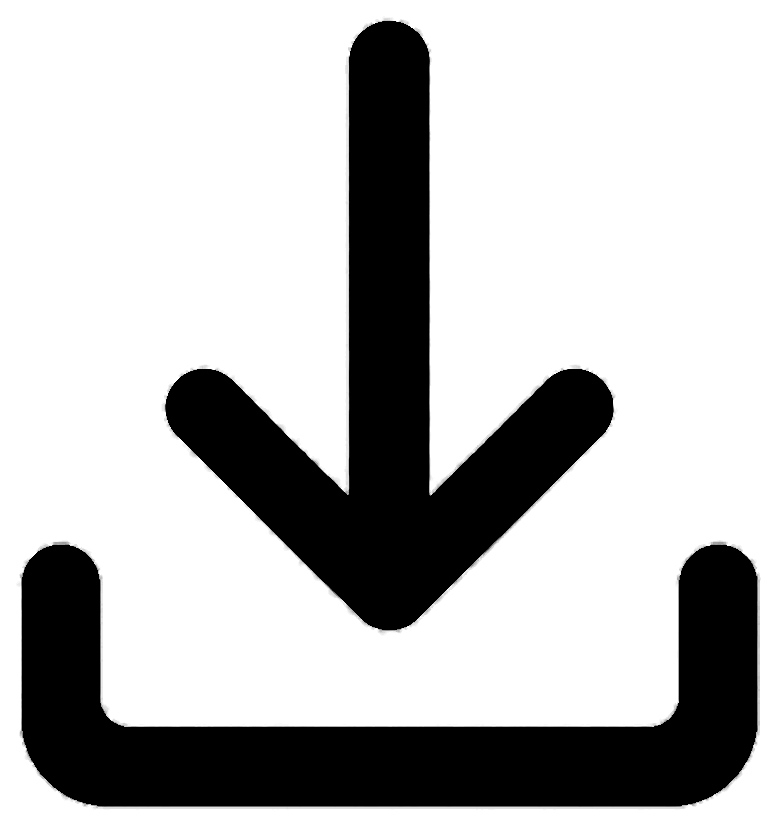
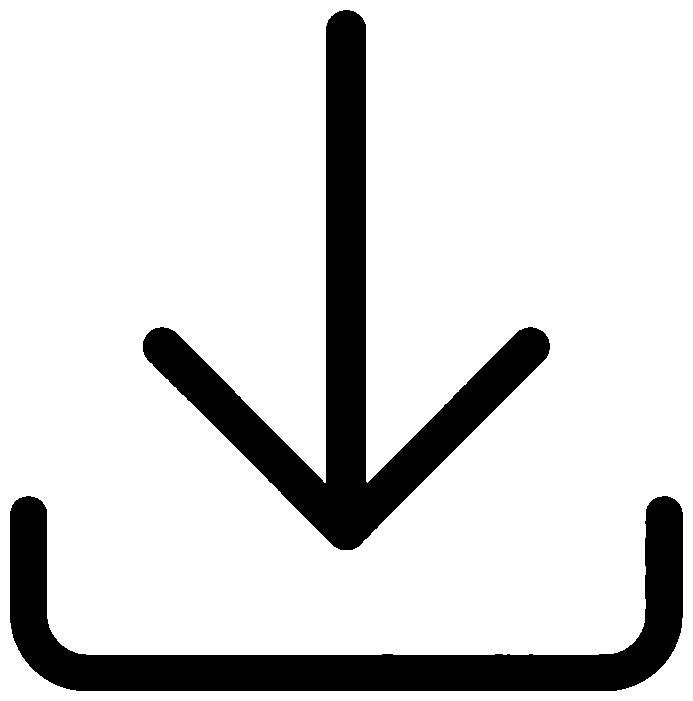
stable release: design track

diff --git a/public_html/map.html b/public_html/map.html
@@ -1039,8 +1039,8 @@ body, html {
         }
 
         .download-track-btn img {
-          width: 24px;
-          height: 24px;
+          width: 20px;
+          height: 20px;
           display: block;
           pointer-events: none;
         }